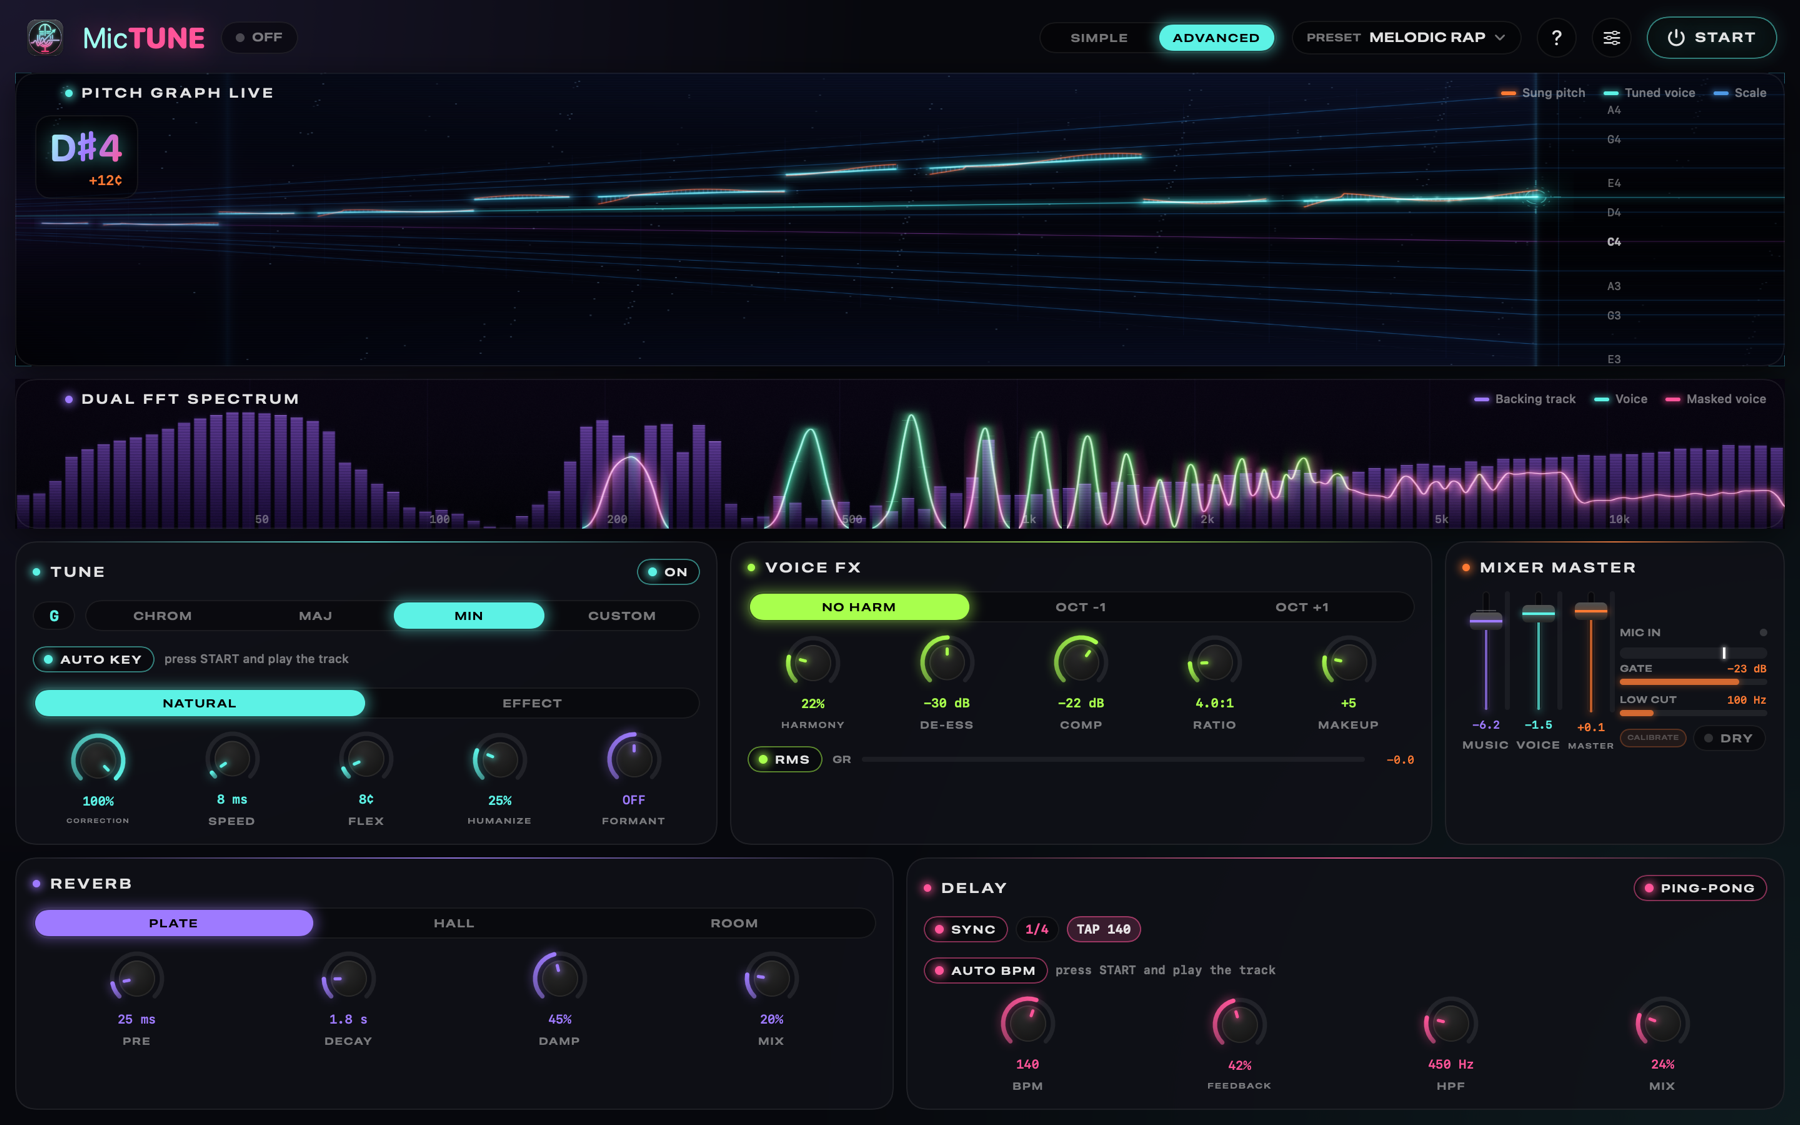
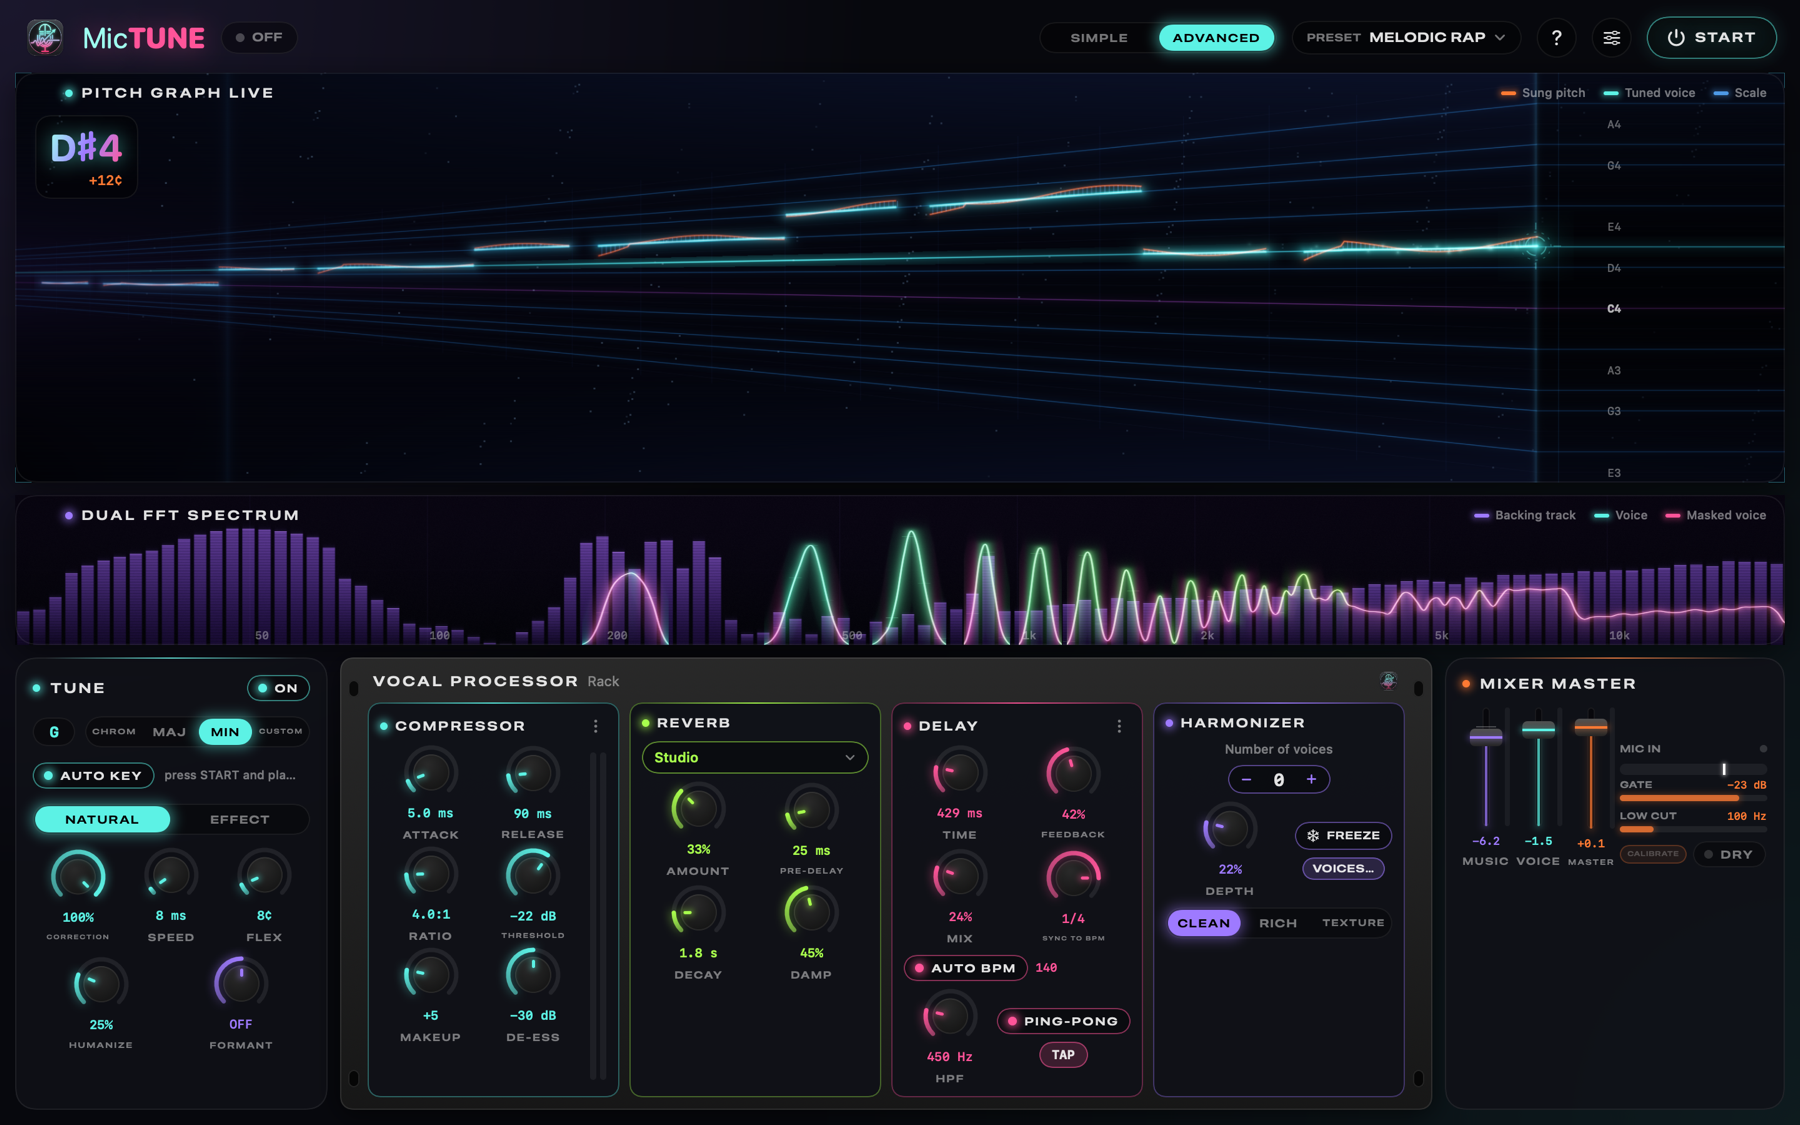
MicTune 1.1.0

diff --git a/README.md b/README.md
@@ -27,7 +27,8 @@ MicTune trasforma il tuo Mac in un processore vocale per cantare dal vivo: **cor
 - 🎼 **AUTO KEY**: riconosce da solo la tonalità della canzone.
 - 🥁 **AUTO BPM**: riconosce il tempo e mette gli echi a tempo.
 - ✨ **Preset** pronti in due famiglie: **correzione naturale** (Melodic Rap, Urban Pop, Indie Pop, Ballad Arena…) e **hard tune** (Trap Hardcore, Dark Trap, Ambient Trap…).
-- 🎚 Modalità **SEMPLICE** (stili con nomi chiari) e **AVANZATA** (tutti i parametri).
+- 🎛 **Rack Vocal Processor**: compressore, riverbero, delay e **armonizzatore a 4 voci** che segue la tonalità e mantiene il timbro della voce, con **FREEZE** (tiene una nota come tappeto) e **carattere** Pulito / Ricco / Texture.
+- 🎚 Modalità **SEMPLICE** (controlli essenziali e stili pronti) e **AVANZATA** (tutti i parametri).
 - 🎧 Uscita su cuffie e impianto insieme, **pulizia del microfono** (gate) e spettri animati.
 - 🌍 Italiano, English, Français, Deutsch, Español.
 - 🔄 **Aggiornamenti automatici**.
@@ -98,6 +99,10 @@ Non serve nessun cavo né programma in più: fai partire la canzone su **YouTube
 4. Se senti la correzione anche sulla base, premi **CALIBRA** nella card MIXER e resta in silenzio 3 secondi.
 5. Canta. 🎤
 
+### Armonie e FREEZE
+
+Nel modulo **ARMONIZZATORE** del rack scegli quante voci aggiungere (fino a 4) con − / +: seguono la tonalità della canzone e suonano come cori veri. **FREEZE** (tasto F) tiene la nota che stai cantando come tappeto. Le armonie arrivano pochi millisecondi dopo la voce, come un coro: **la tua voce resta a latenza quasi zero**.
+
 ### Livelli consigliati
 
 - **MIC IN** (card MIXER): quando canti forte deve arrivare circa a ¾, mai sempre al massimo. Regola il gain sulla scheda/mixer.
@@ -146,7 +151,8 @@ MicTune turns your Mac into a live vocal processor: **real-time pitch correction
 - 🎤 **NATURAL correction** (in tune without the robotic sound, vibrato kept) or **EFFECT** (the trap hard-tune).
 - 🎼 **AUTO KEY** detects the song's key, 🥁 **AUTO BPM** keeps the echoes in time.
 - ✨ Ready-made **presets** in two families: **natural correction** (Melodic Rap, Urban Pop, Indie Pop, Ballad Arena…) and **hard tune** (Trap Hardcore, Dark Trap, Ambient Trap…).
-- 🎚 **SIMPLE** mode (clearly named styles) and **ADVANCED** mode (every parameter).
+- 🎛 **Vocal Processor rack**: compressor, reverb, delay and a **4-voice harmonizer** that follows the song's key and keeps the singer's timbre, with **FREEZE** (holds a note as a pad) and **character** Clean / Rich / Texture.
+- 🎚 **SIMPLE** mode (essential controls and ready-made styles) and **ADVANCED** mode (every parameter).
 - 🎧 Headphones and PA at the same time, mic **cleanup gate**, animated spectrum and pitch graph.
 - 🌍 English, Italiano, Français, Deutsch, Español · 🔄 **automatic updates**.
 
@@ -192,6 +198,8 @@ No cables or extra software: play the song on **YouTube, Spotify, VLC** or any a
 2. Pick a **PRESET**, e.g. **MELODIC RAP**: it sets voice, reverb, delay and turns on **AUTO KEY** and **AUTO BPM**.
 3. If you hear the correction on the backing track, press **CALIBRATE** in the MIXER card and stay silent for 3 seconds.
 4. Sing. 🎤
+
+**Harmonies and FREEZE**: in the rack's **HARMONIZER** pick up to 4 voices with − / +; they follow the song's key and sound like real backing vocals. **FREEZE** (key F) holds the note you sing as a pad. Harmonies arrive a few ms after your voice, like a choir: **your lead voice keeps its near-zero latency**.
 
 **Natural or effect**: NATURAL (default) tunes the centre of each note and keeps vibrato and slides; lower **CORRECTION** to 70–85% for a more human sound. EFFECT is the deliberate robotic snap. **SPEED** 0–8 ms = audible, 20–40 ms = almost invisible.
 
